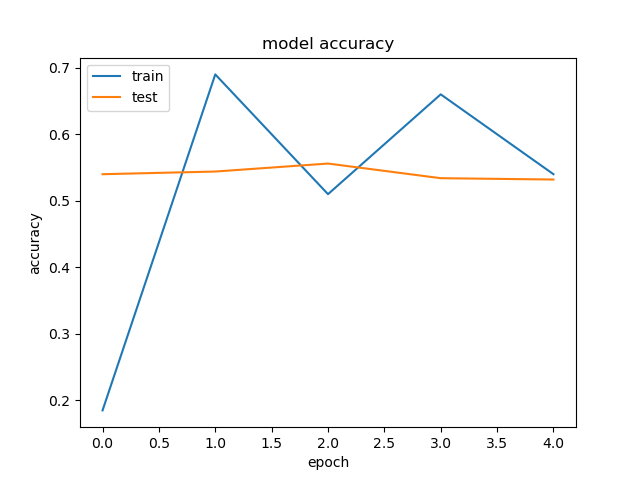
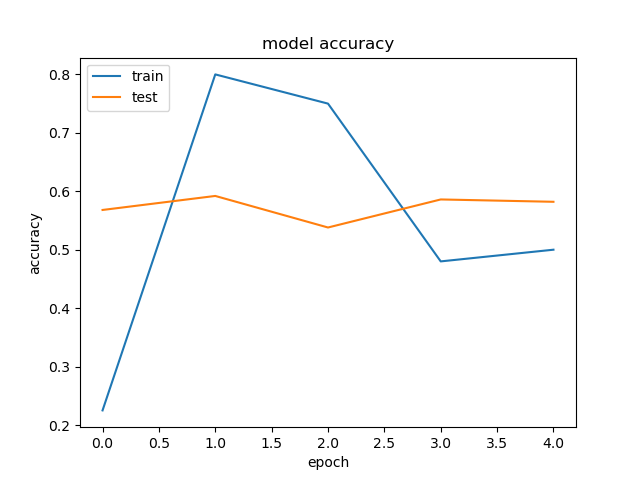
Model training results

diff --git a/models/transfer_models.py b/models/transfer_models.py
@@ -138,7 +138,7 @@ def train_and_eval(model, img_size, batch_folder, epochs, steps_per_epoch, valid
     print(name + "loss: {:.2f}".format(loss0))
     print(name + "accuracy: {:.2f}".format(accuracy0))
     
-
+    plt.figure()
     plt.plot(history.history['accuracy'])
     plt.plot(history.history['val_accuracy'])
     plt.title('model accuracy')
@@ -147,6 +147,8 @@ def train_and_eval(model, img_size, batch_folder, epochs, steps_per_epoch, valid
     plt.legend(['train', 'test'], loc='upper left')
     plt.savefig(name + '_acc.png')
 
+    plt.clf()
+    plt.figure()
     plt.plot(history.history['loss'])
     plt.plot(history.history['val_loss'])
     plt.title('model loss')
@@ -157,15 +159,16 @@ def train_and_eval(model, img_size, batch_folder, epochs, steps_per_epoch, valid
 
 def main():
     img_size = 224
-    batch_folders = ['GA_1', 'GA_2', 'AZ_0.01stride', 'AZ2_00.005stride']
-    train, val, test = get_train_val_test(batch_folder, img_size)
+    batch_folders = ['GA_1', 'GA_2', 'AZ2_0.005stride']
     labels = ['low income', 'medium income', 'high income']
-    for bf in batch_folders:
-        model = get_vgg_transfer_model((224, 224, 3), len(labels))
-        train_and_eval(model=model, img_size=img_size, batch_folder=bf, epochs=5, steps_per_epoch=2, validation_steps=2)
-    for bf in batch_folders:
-        model = get_vgg_transfer_model((224, 224, 3), len(labels))
-        train_and_eval(model=model, img_size=img_size, batch_folder=bf, epochs=50, steps_per_epoch=2, validation_steps=2, name='run_2_')
+    # for bf in batch_folders:
+    #     model = get_vgg_transfer_model((224, 224, 3), len(labels))
+    #     train_and_eval(model=model, img_size=img_size, batch_folder=bf, epochs=5, steps_per_epoch=2, validation_steps=2)
+    # for bf in batch_folders:
+    #     model = get_vgg_transfer_model((224, 224, 3), len(labels))
+    #     train_and_eval(model=model, img_size=img_size, batch_folder=bf, epochs=50, steps_per_epoch=2, validation_steps=2, base_name='run_2_')
+    model = get_vgg_transfer_model((224, 224, 3), len(labels))
+    train_and_eval(model=model, img_size=img_size, batch_folder='GA_1', epochs=3, steps_per_epoch=2, validation_steps=2, base_name='')
 
 if __name__ == '__main__':
     main()
